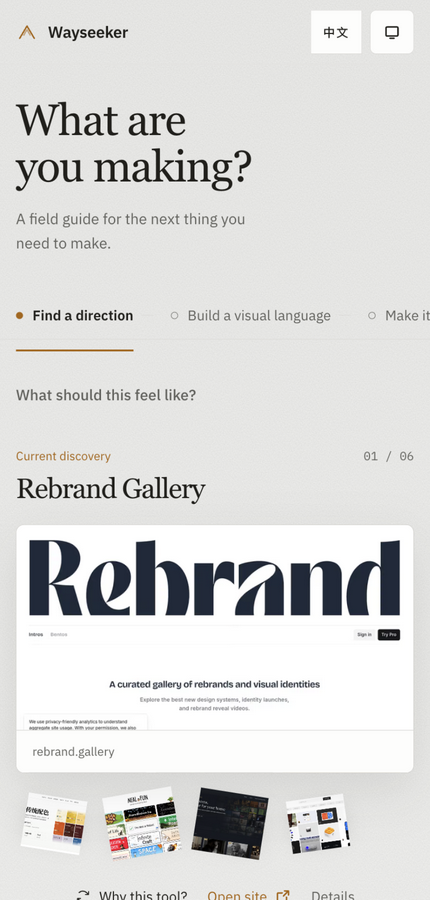
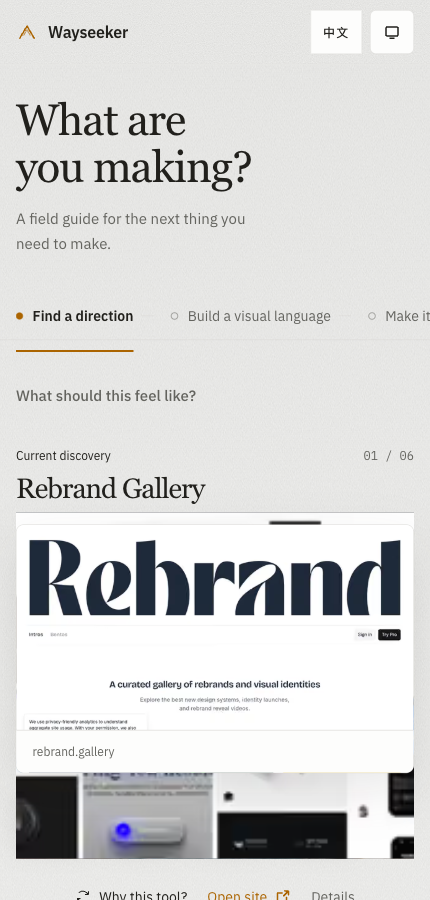
docs: recapture Wayseeker after the plan-generator update
Fresh desktop and mobile captures from the live site following the
catalogue curation and the five-step plan feature; the blurb now
mentions dealing a plan, swapping steps and copying it as Markdown,
and the capture note carries both dates.

diff --git a/README.md b/README.md
@@ -32,7 +32,7 @@ I’m **cookabc**. A few selected public projects for learning, finding, playing
 
 ## 02 / Wayseeker
 
-**Find the next useful tool by starting with the work in front of you.** A bilingual field guide to design and development tools, organised into five working paths.
+**Find the next useful tool by starting with the work in front of you.** A bilingual field guide to design and development tools, organised into five working paths. When one tool isn't enough, it deals a five-step plan around a single anchor — swap any step, then copy it as Markdown.
 
 [Try it live →](https://wayseeker.vercel.app/) · [View code →](https://github.com/cookabc/wayseeker)
 
@@ -100,7 +100,7 @@ It is an interactive teaching model, not a real-device performance simulation.
 <details>
 <summary>About the screenshots & presentation</summary>
 
-Captured from the real, live sites on 29 October 2026, with separate desktop and mobile framing. Close-ups are crops, not redrawn interfaces. Kachi shows a concept close-up; Wayseeker shows the workflow and tool preview; the museum shows its coffee machine; Flow Ledger shows its workspace.
+Captured from the real, live sites — Kachi, the museum and Flow Ledger on 29 October 2026; Wayseeker on 31 October 2026, after its catalogue curation and plan-generator update. Separate desktop and mobile framing. Close-ups are crops, not redrawn interfaces. Kachi shows a concept close-up; Wayseeker shows the workflow and tool preview; the museum shows its coffee machine; Flow Ledger shows its workspace.
 
 Progress and sample data reflect the captured state only. Public source and deployed versions may differ. Project licences and third-party rights remain with their respective repositories.
 

diff --git a/README.zh-CN.md b/README.zh-CN.md
@@ -32,7 +32,7 @@
 
 ## 02 / Wayseeker
 
-**从手头的任务出发，找到下一件顺手的工具。** 沿五条工作路径发现设计与开发工具，附中英双语策展说明。
+**从手头的任务出发，找到下一件顺手的工具。** 沿五条工作路径发现设计与开发工具，附中英双语策展说明。当一件工具不够用时，它会围绕一件锚点工具发一套五步方案——逐步可换，一键复制为 Markdown。
 
 [打开体验 →](https://wayseeker.vercel.app/) · [查看代码 →](https://github.com/cookabc/wayseeker)
 
@@ -100,7 +100,7 @@
 <details>
 <summary>关于截图与呈现</summary>
 
-画面来自 2026-10-29 的真实线上网站，按桌面与手机视口分别取景；局部裁切没有重绘界面。Kachi 展示概念特写，Wayseeker 展示工作路径与工具预览，纸上机械馆展示咖啡机，流账展示工作台。
+画面来自真实线上网站：Kachi、纸上机械馆与流账摄于 2026-10-29，Wayseeker 于 2026-10-31 目录策展与方案生成器上线后重摄；按桌面与手机视口分别取景，局部裁切没有重绘界面。Kachi 展示概念特写，Wayseeker 展示工作路径与工具预览，纸上机械馆展示咖啡机，流账展示工作台。
 
 截图中的进度和示例数据只代表拍摄时状态。公开源码与线上版本可能不同；各项目的许可与第三方权利以对应仓库为准。
 
